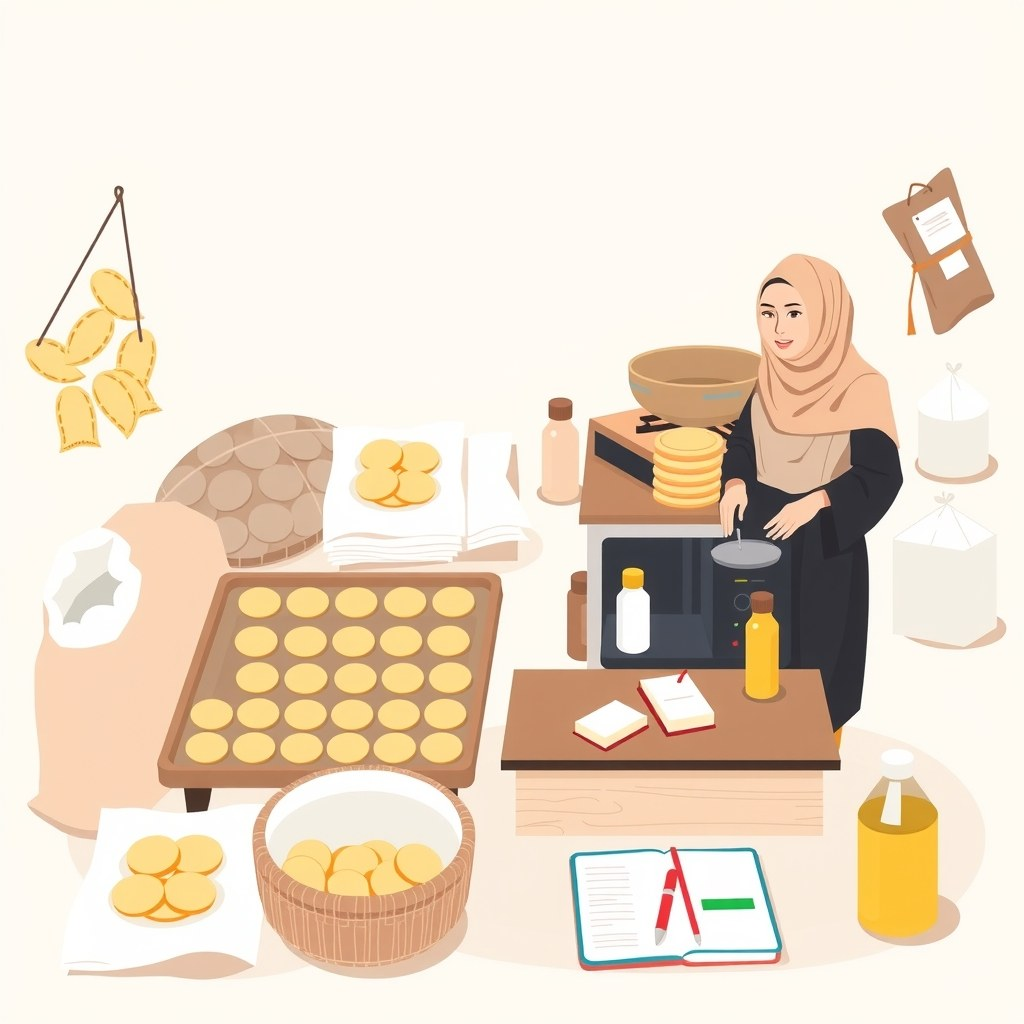
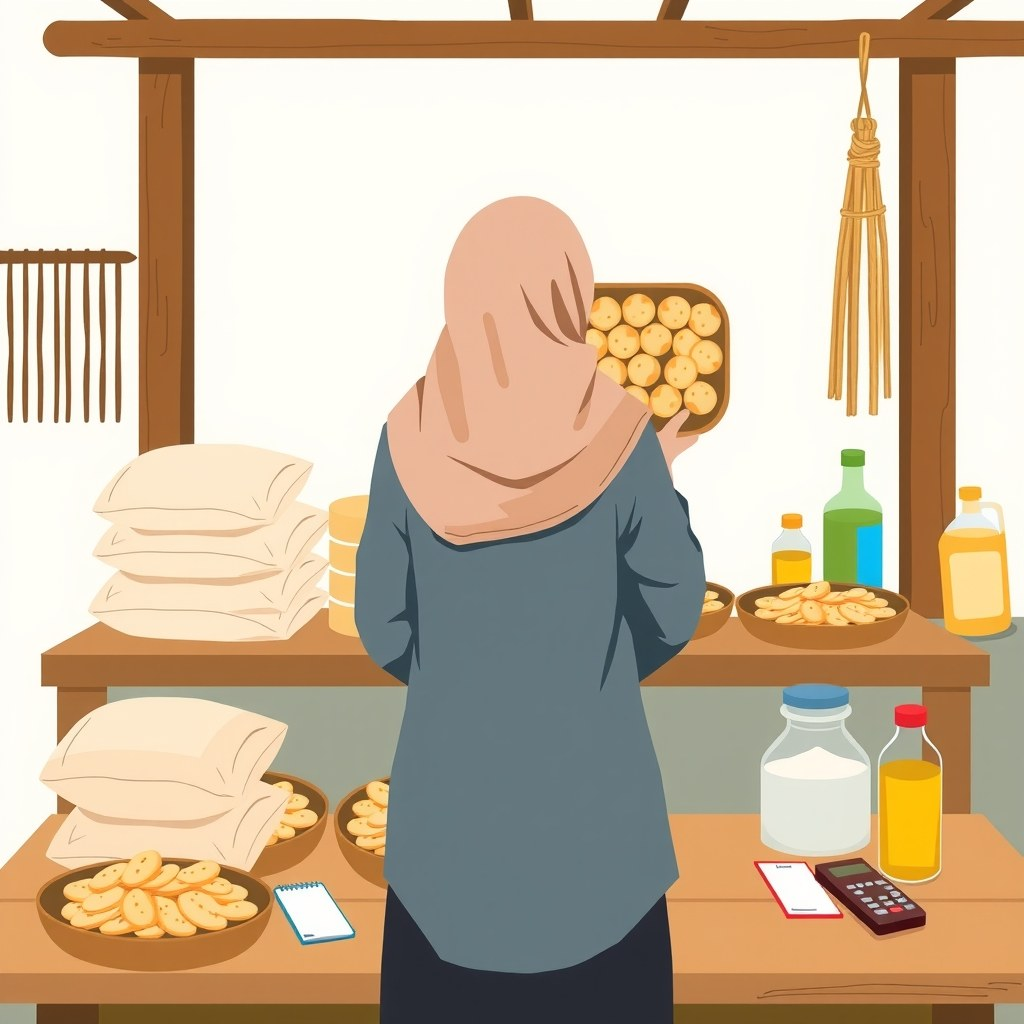
[tanpa-notif] cara-menghitung-cogs-dan-harga-jual-umkm: gambar 1 diganti ilustrasi AI

diff --git a/artikel/cara-menghitung-cogs-dan-harga-jual-umkm.html b/artikel/cara-menghitung-cogs-dan-harga-jual-umkm.html
@@ -389,7 +389,7 @@ footer a:hover{color:#0B0C0E}
       <figcaption>Menghitung modal per unit sebelum menetapkan harga jual. <span class="kredit">Ilustrasi AI</span></figcaption>
     </figure><p>Fenomena kenaikan harga bahan baku dan kemasan plastik belakangan ini menghantam berbagai sektor usaha kecil di Indonesia. Banyak pelaku UMKM keluhkan harga minyak, telur, hingga wadah pembungkus yang melonjak tajam dalam waktu singkat. Situasi ini menempatkan pemilik usaha pada posisi serba salah: menahan harga jual berarti mengikhlaskan margin laba hancur, sementara menaikkan harga secara gegabah berisiko membuat pelanggan setia kabur ke pesaing.</p><p>Ketika kamu tidak menghitung ulang COGS secara berkala saat lonjakan harga terjadi, hilangnya keuntungan sering kali baru disadari di akhir bulan saat uang kas habis padahal penjualan terasa ramai. Ini yang disebut dengan fenomena <em>omzet semu</em>.</p><div class="stat"><b>0%</b><span>laba bersih yang tersisa jika kenaikan COGS 20% tidak diimbangi dengan penyesuaian porsi atau penetapan harga baru.</span></div><p>Ketahuilah bahwa harga bahan baku yang kamu beli bulan lalu sudah tidak relevan untuk menentukan harga jual hari ini. Menggunakan istilah Josh Kaufman dalam buku <em>The Personal MBA: A World-Class Business Education in a Single Volume</em>, kamu harus senantiasa menghitung berdasarkan <strong>replacement cost</strong> (biaya penggantian), yaitu biaya riil yang harus kamu keluarkan hari ini untuk membeli kembali bahan baku yang sama untuk proses produksi berikutnya.</p><p>Jika kamu membeli tepung seharga Rp10.000 per kg bulan lalu dan saat ini harganya sudah menjadi Rp14.000 per kg, maka modal dasar perhitungan produkmu untuk porsi besok adalah Rp14.000, bukan Rp10.000. Mengabaikan konsep replacement cost ini adalah penyebab utama mengapa banyak toko kelontong atau tempat makan mendadak bangkrut padahal barang dagangannya selalu laku keras.</p><h2>Cara Menghitung COGS dan Harga Jual UMKM Langkah demi Langkah</h2><figure class="ilus"><svg viewBox="0 0 320 150" role="img" aria-labelledby="il3-t"><title id="il3-t">Empat Langkah Menghitung COGS dan Menentukan Harga</title><rect x="10" y="20" width="65" height="110" rx="6" fill="#12386E"/><text x="42" y="40" font-family="sans-serif" font-size="12" font-weight="bold" fill="#FFFFFF" text-anchor="middle">1</text><text x="42" y="60" font-family="sans-serif" font-size="8" fill="#FFFFFF" text-anchor="middle">Rincikan</text><text x="42" y="72" font-family="sans-serif" font-size="8" fill="#FFFFFF" text-anchor="middle">Komponen</text><rect x="85" y="20" width="65" height="110" rx="6" fill="#12386E"/><text x="117" y="40" font-family="sans-serif" font-size="12" font-weight="bold" fill="#FFFFFF" text-anchor="middle">2</text><text x="117" y="60" font-family="sans-serif" font-size="8" fill="#FFFFFF" text-anchor="middle">Hitung</text><text x="117" y="72" font-family="sans-serif" font-size="8" fill="#FFFFFF" text-anchor="middle">COGS Unit</text><rect x="160" y="20" width="65" height="110" rx="6" fill="#12386E"/><text x="192" y="40" font-family="sans-serif" font-size="12" font-weight="bold" fill="#FFFFFF" text-anchor="middle">3</text><text x="192" y="60" font-family="sans-serif" font-size="8" fill="#FFFFFF" text-anchor="middle">Tentukan</text><text x="192" y="72" font-family="sans-serif" font-size="8" fill="#FFFFFF" text-anchor="middle">Target Margin</text><rect x="235" y="20" width="75" height="110" rx="6" fill="#26292F"/><text x="272" y="40" font-family="sans-serif" font-size="12" font-weight="bold" fill="#F5B301" text-anchor="middle">4</text><text x="272" y="60" font-family="sans-serif" font-size="8" fill="#FFFFFF" text-anchor="middle">Uji Nilai &amp;</text><text x="272" y="72" font-family="sans-serif" font-size="8" fill="#FFFFFF" text-anchor="middle">Harga Jual</text></svg><figcaption>Urutan matematis menghitung COGS hingga menetapkan harga berbasis nilai di pasar.</figcaption></figure><p>Untuk menghitung COGS dan menentukan harga jual yang aman tanpa membuat pembeli lari, kamu bisa mengikuti urutan langkah bernomor di bawah ini:</p><div class="step"><div class="n">1</div><div><h3>Rincikan Seluruh Komponen Biaya Langsung</h3><p>Data semua bahan mentah, kemasan (stiker, botol, plastik, dus), serta biaya tenaga kerja langsung yang digunakan untuk memproduksi sejumlah unit tertentu. Pastikan menggunakan harga beli penggantian (replacement cost) terbaru.</p></div></div><div class="step"><div class="n">2</div><div><h3>Gunakan Rumus Dasar COGS Per Unit</h3><p>Bagi total seluruh biaya langsung yang terkumpul dalam satu gelombang produksi (batch) dengan jumlah total unit bersih produk yang layak jual (setelah dikurangi potensi produk cacat atau <em>waste</em>).</p></div></div><div class="step"><div class="n">3</div><div><h3>Pahami Empat Metode Penetapan Harga</h3><p>Menurut Josh Kaufman dalam <em>The Personal MBA</em>, terdapat empat cara utama menentukan harga jual: <strong>replacement cost</strong> (biaya modal ditambah markup), <strong>market comparison</strong> (membandingkan dengan harga kompetitor), <strong>discounted cash flow</strong> (khusus aset finansial), dan <strong>value comparison</strong> (membandingkan dengan nilai atau manfaat yang diterima pelanggan). Untuk UMKM, kombinasikan replacement cost sebagai batas bawah dan value comparison sebagai batas atas.</p></div></div><div class="step"><div class="n">4</div><div><h3>Gunakan Metode Value-Based Pricing untuk Melindungi Margin</h3><p>Alih-alih sekadar memakai rumus <em>Cost-Plus Pricing</em> (Modal + % Markup), lihatlah nilai unik produkmu. Jika sambal kemasanmu menggunakan resep rempah langka yang tahan 3 bulan tanpa pengawet sintesis, pelanggan bersedia membayar lebih mahal karena kepraktisan dan rasanya, bukan hanya karena modal cabainya.</p></div></div><p>Jika kamu ingin mendalami strategi promosi dan cara mengomunikasikan nilai produk ini agar calon pembeli tidak peka terhadap kenaikan harga, kamu bisa mempelajari <a href="/artikel/cara-keluar-perang-harga-e-commerce-umkm">strategi keluar dari perang harga</a> yang membahas reposisi penawaran secara mendalam.</p><h2>Contoh Perhitungan COGS dan Harga Jual Produk Makanan &amp; Kemasan</h2>
     <figure class="foto">
-      <img src="img-cara-menghitung-cogs-dan-harga-jual-umkm-1.jpg" alt="Dapur produksi kue tradisional rumahan dengan bahan baku, wajan, dan catatan biaya" loading="lazy" width="1024" height="1024">
+      <img src="img-cara-menghitung-cogs-dan-harga-jual-umkm-1.jpg" alt="Pelaku usaha rumahan menata kue tradisional di antara bahan baku dan catatan biaya" loading="lazy" width="1024" height="1024">
       <figcaption>Kenaikan harga bahan baku dan kemasan langsung mengubah struktur modal usaha rumahan. <span class="kredit">Ilustrasi AI</span></figcaption>
     </figure><p>Agar gambaran matematisnya makin jelas, mari kita bedah satu contoh studi kasus perhitungan riil usaha pembuatan Sambal Cumi Kemasan botol plastik ukuran 150 gram untuk 1 gelombang produksi (100 botol).</p><div class="tbl-wrap"><table><tr><th>Komponen Biaya Langsung</th><th>Rincian Biaya Terbaru</th><th>Total Biaya</th></tr><tr><td>Bahan Utama (Cabai, Cumi, Bumbu, Minyak)</td><td>Berdasarkan replacement cost terbaru</td><td>Rp400.000</td></tr><tr><td>Kemasan (Botol Kaca, Seal Aluminium, Stiker)</td><td>Harga plastik &amp; kemasan meroket</td><td>Rp200.000</td></tr><tr><td>Upah Langsung (2 Orang Asisten Masak)</td><td>Dibayar per batch produksi</td><td>Rp150.000</td></tr><tr><td><strong>Total COGS (100 Botol)</strong></td><td><strong>Jumlah Biaya Langsung</strong></td><td><strong>Rp750.000</strong></td></tr></table></div><p>Dari tabel di atas, kita dapatkan hitungan COGS dasar per unit:</p><p><code>COGS per Botol = Rp750.000 / 100 Botol = Rp7.500 per botol</code></p><p>Jika produsen hanya memakai pendekatan klasik <em>Cost-Plus Pricing</em> dengan markup 30%, maka harga jualnya adalah:</p><p><code>Harga Jual = Rp7.500 + (30% x Rp7.500) = Rp9.750 (dibulatkan Rp10.000)</code></p><p>Namun, angka Rp10.000 ini sangat rentan! Jika harga cabai meroket lagi sebesar 20%, COGS naik menjadi Rp8.300 dan margin bersih usahamu langsung habis tergerus biaya operasional sewa tempat dan promosi.</p><p>Di sinilah strategi <strong>Value Comparison Pricing</strong> masuk. Pemilik usaha melakukan riset pasar dan menemukan bahwa sambal sejenis di pasaran dijual seharga Rp18.000 hingga Rp25.000. Karena produknya menggunakan cumi segar tanpa pengawet dan dikemas rapat tahan bocor, ia menetapkan harga jual di angka <strong>Rp15.000 per botol</strong>.</p><p>Dengan harga Rp15.000, margin laba kotor yang didapat adalah:</p><p><code>Margin Laba Kotor = ((Rp15.000 - Rp7.500) / Rp15.000) x 100% = 50%</code></p><p>Dengan margin laba kotor sebesar 50% (Rp7.500 per botol), bisnis ini memiliki bantalan yang sangat aman untuk menyerap kenaikan harga bahan baku di masa depan tanpa perlu terburu-buru menaikkan harga jual ke konsumen setiap minggu.</p><p>Bagi kamu yang menjalankan usaha kuliner offline atau toko fisik, kombinasi metode ini juga diselaraskan dengan panduan tentang <a href="/artikel/cara-bersaing-dengan-marketplace-untuk-toko-fisik">cara bersaing tanpa mengandalkan diskon gila-gilaan</a> agar nilai pelayanan tokomu makin menonjol di mata pembeli.</p><h2>Kesalahan Umum UMKM dalam Menghitung COGS dan Menetapkan Harga</h2><figure class="ilus"><svg viewBox="0 0 320 150" role="img" aria-labelledby="il5-t"><title id="il5-t">Kesalahan Fatal vs Solusi Efisiensi COGS</title><rect x="10" y="15" width="145" height="120" rx="6" fill="#26292F"/><text x="82" y="35" font-family="sans-serif" font-size="10" font-weight="bold" fill="#F5B301" text-anchor="middle">Sering Salah</text><text x="20" y="58" font-family="sans-serif" font-size="9" fill="#FFFFFF">• Pangkas kualitas bahan</text><text x="20" y="78" font-family="sans-serif" font-size="9" fill="#FFFFFF">• Lupa hitung kemasan</text><text x="20" y="98" font-family="sans-serif" font-size="9" fill="#FFFFFF">• Asal ikutan diskon</text><rect x="165" y="15" width="145" height="120" rx="6" fill="#12386E"/><text x="237" y="35" font-family="sans-serif" font-size="10" font-weight="bold" fill="#FFFFFF" text-anchor="middle">Solusi Tepat</text><text x="175" y="58" font-family="sans-serif" font-size="9" fill="#FFFFFF">• Redesign porsi/ukuran</text><text x="175" y="78" font-family="sans-serif" font-size="9" fill="#FFFFFF">• Bedah detail komponen</text><text x="175" y="98" font-family="sans-serif" font-size="9" fill="#FFFFFF">• Tonjolkan nilai unik</text></svg><figcaption>Menghindari penurunan kualitas drastis dan beralih ke efisiensi porsi serta penonjolan nilai.</figcaption></figure><p>Ketika biaya produksi membengkak, banyak pengusaha terjebak pada keputusan impulsif. Berikut adalah empat kesalahan paling sering terjadi di lapangan beserta cara mengatasinya:</p><ul><li><strong>Panik dan Langsung Memangkas Kualitas Bahan Baku:</strong> Mengganti bahan baku dengan kualitas jauh lebih rendah demi mempertahankan harga lama adalah jebakan mematikan. Pembeli setia akan langsung merasakan perubahan rasa atau ketahanan produk, merasa kecewa, lalu pindah permanen. Daripada merusak kualitas, lebih baik sedikit mengurangi porsi (<em>shrinkflation</em>) atau membuat varian ukuran baru yang lebih terjangkau.</li><li><strong>Memasukkan Seluruh Biaya Kantor ke COGS:</strong> Memasukkan tagihan listrik AC rumah, biaya admin bank, hingga gaji pemilik usaha yang tidak memproduksi barang ke dalam COGS membuat perhitungan modal produk membengkak tidak realistis. Pisahkan dengan tegas biaya operasional bulanan di bawah garis laba kotor.</li><li><strong>Mengabaikan Biaya Penyusutan dan Kemasan Kecil:</strong> Banyak pemula hanya menghitung bahan utama (seperti tepung dan daging), tetapi lupa memasukkan isolasi, bubble wrap, stiker label, sendok plastik, atau gas LPG. Biaya-biaya kecil yang tidak dicatat ini jika ditotal bisa menggerus 5% hingga 10% margin laba kotor.</li><li><strong>Menetapkan Harga HANYA Berdasarkan Kebiasaan Pesaing:</strong> Ikut-ikutan menetapkan harga murah hanya karena toko sebelah menjual di harga tersebut sangat berbahaya. Kamu tidak pernah tahu apakah kompetitor tersebut memiliki jalur pasokan bahan baku yang lebih murah, menggunakan modal sendiri tanpa sewa, atau sebenarnya mereka juga sedang menuju kebangkrutan karena menjual rugi.</li></ul><div class="note"><div class="nt">Biar jujur</div><p>Menaikkan harga jual memang tidak pernah menyenangkan bagi pelanggan. Namun, bisnis yang jujur mempertahankan kualitas dengan harga masuk akal jauh lebih dihormati dan bertahan lama daripada bisnis yang pura-pura murah tetapi perlahan menurunkan kualitas produknya sampai tak layak dikonsumsi.</p></div><h2>Cara Uji Pemahaman: Apakah Struktur Harga Bisnismu Sudah Aman?</h2><figure class="ilus"><svg viewBox="0 0 320 150" role="img" aria-labelledby="il6-t"><title id="il6-t">Evaluasi Mandiri Struktur Harga Usaha</title><rect x="20" y="15" width="280" height="35" rx="6" fill="#12386E"/><text x="35" y="36" font-family="sans-serif" font-size="10" font-weight="bold" fill="#FFFFFF">[  ] 1. Hitung COGS harga penggantian</text><rect x="20" y="58" width="280" height="35" rx="6" fill="#12386E"/><text x="35" y="79" font-family="sans-serif" font-size="10" font-weight="bold" fill="#FFFFFF">[  ] 2. Uji daya tahan margin laba kotor</text><rect x="20" y="101" width="280" height="35" rx="6" fill="#26292F"/><text x="35" y="122" font-family="sans-serif" font-size="10" font-weight="bold" fill="#F5B301">[  ] 3. Tetapkan nilai tambah produk</text></svg><figcaption>Tiga pertanyaan evaluasi mandiri untuk memastikan struktur modal dan harga jual usahamu sudah kokoh.</figcaption></figure><p>Sebelum kamu menutup panduan ini dan mulai membuka lembar pencatatan keuangan bisnismu, cobalah uji pemahamanmu dengan menjawab tiga pertanyaan mandiri berikut menggunakan bahasamu sendiri:</p><ol><li>Dapatkah kamu memisahkan mana pengeluaran usaha minggu ini yang masuk ke dalam komponen COGS (di atas garis laba kotor) dan mana yang masuk ke biaya operasional umum (di bawah garis)?</li><li>Jika supplier utama bahan bakumu mendadak menaikkan harga sebesar 15% besok pagi, berapa rupiah tepatnya COGS per unit terbarumu, dan berapa persen sisa margin laba kotor yang kamu miliki jika harga jual tidak diubah?</li><li>Apa nilai tambah spesifik (<em>value comparison</em>) dari produkmu yang membuat pelanggan rela membayar lebih mahal dibandingkan produk serupa milik kompetitor di pasaran?</li></ol><p>Jika kamu bisa menjawab ketiga pertanyaan di atas dengan angka dan argumen yang jelas, berarti kamu sudah siap mengelola struktur biaya usahamu dengan tangguh. Ingat, sistem pencatatan keuangan dan penentuan harga yang rapi akan selalu mengalahkan rasa panik saat menghadapi gejolak ekonomi.</p><p>Untuk menambah wawasan dalam merancang model bisnis dan ekosistem usaha yang tahan banting, sempatkan juga membaca kumpulan artikel di <a href="/artikel">katalog panduan bisnis BiB</a> yang terus diperbarui setiap hari.</p>
 
